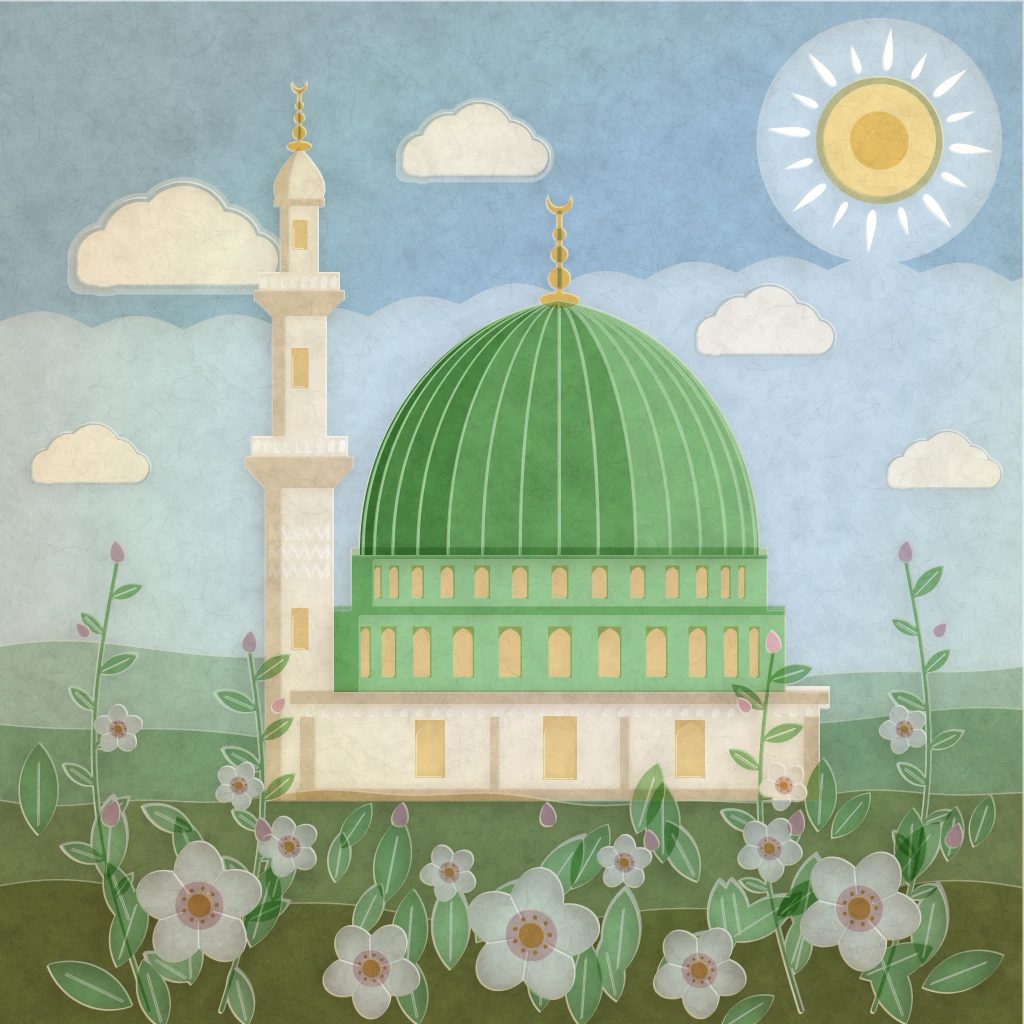
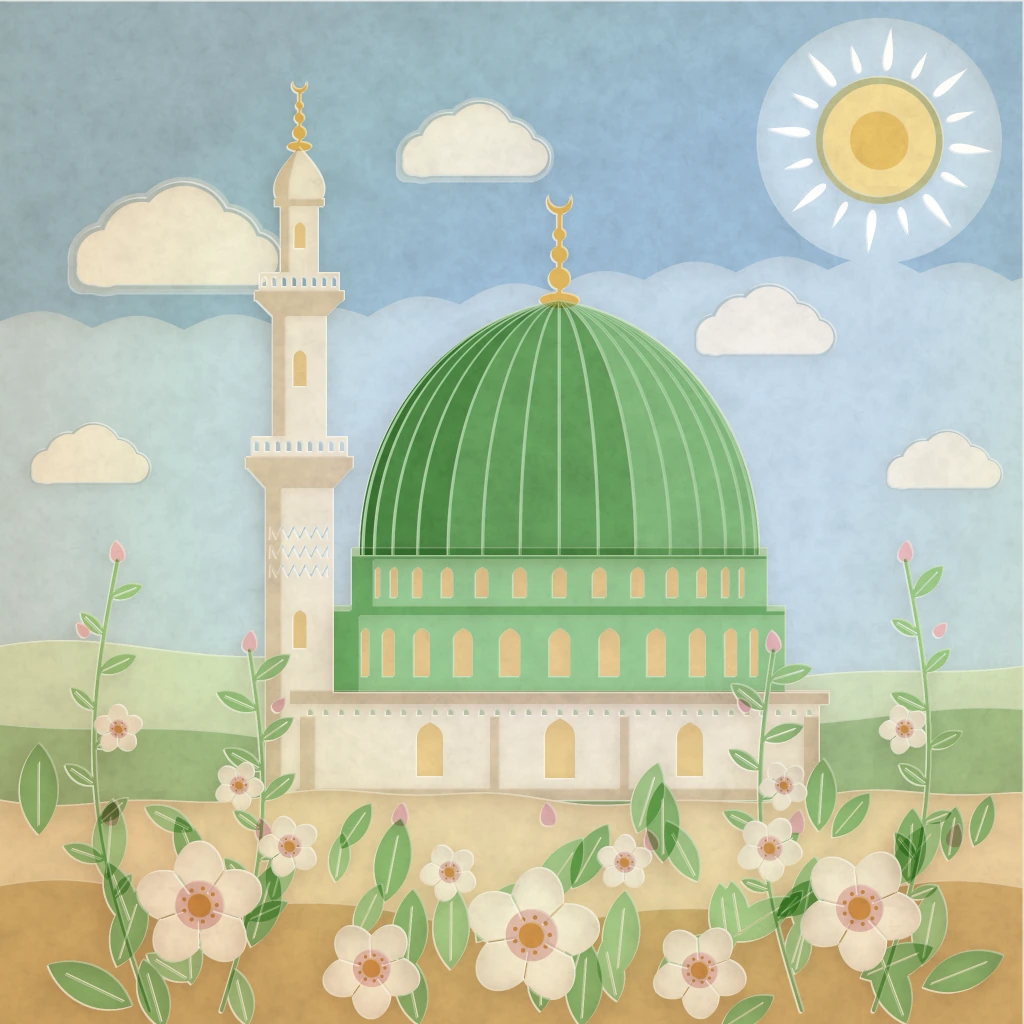
Atölye: geometrik vektör, saydam katmanlar, gradyan çizgi, duotone, çiçek çerçeveli vektör (S-126–S-130) ilk tur
Claude-Session: https://claude.ai/code/session_01Q8CfoBGMPN7gfLWQYpMs1J

diff --git a/atolye/stiller/S-148-fotogercekci-dijital-resim/ornek.html b/atolye/stiller/S-148-fotogercekci-dijital-resim/ornek.html
@@ -890,17 +890,18 @@
         const X = i * 2;
         const Y = j * 2;
         const h = G.kenet(1 - Y / 800, 0, 1); // 1 tepe, 0 ufuk
-        const zen = [0.1, 0.24, 0.6];
-        const ufk = [0.62, 0.72, 0.82];
-        const t = Math.pow(h, 0.55);
-        let c = [ufk[0] + (zen[0] - ufk[0]) * t, ufk[1] + (zen[1] - ufk[1]) * t, ufk[2] + (zen[2] - ufk[2]) * t];
+        const zen = [52, 112, 198];
+        const ort = [118, 168, 226];
+        const ufk = [214, 228, 238];
+        const t = Math.pow(h, 0.7);
+        let c = t > 0.5 ? G.karis(ort, zen, (t - 0.5) / 0.5) : G.karis(ufk, ort, t / 0.5);
         const d = Math.hypot(X - GUNES.x, Y - GUNES.y);
-        const mie = 1.6 * Math.exp(-d / 60) + 0.45 * Math.exp(-d / 260) + 0.12 * Math.exp(-d / 600);
-        c = [c[0] + mie * 1.0, c[1] + mie * 0.96, c[2] + mie * 0.86];
+        const mie = 0.95 * Math.exp(-d / 45) + 0.42 * Math.exp(-d / 190) + 0.16 * Math.exp(-d / 520);
+        c = G.karis(c, [255, 252, 240], G.kenet(mie, 0, 1));
         const q = (j * 512 + i) * 4;
-        im.data[q] = srgb(aces(c[0] * 0.9));
-        im.data[q + 1] = srgb(aces(c[1] * 0.9));
-        im.data[q + 2] = srgb(aces(c[2] * 0.9));
+        im.data[q] = c[0];
+        im.data[q + 1] = c[1];
+        im.data[q + 2] = c[2];
         im.data[q + 3] = 255;
       }
     }
@@ -926,9 +927,9 @@
       const h = k.yuk + 2 * k.r1 + 60;
       const c = G.bulut(p, {
         x0, y0, w, h, olcek: 1.5, gur: PN, gurAmp: 0.55, gurFrek: 0.028, oktav: 6, icKoru: [0.6, 1.2],
-        isik: [255, 253, 248], golge: [150, 162, 184], alt: [176, 184, 202], kenar: [0.14, 0.62],
-        emilim: 1.3, adimlar: 9, adimBoy: 5, tabanY: k.y + k.r1 * 0.5, tabanYum: 16, altGuc: 0.55, opaklik: k.ol,
-        parlakKenar: [255, 255, 255],
+        isik: [255, 254, 250], golge: [176, 188, 206], alt: [188, 196, 212], kenar: [0.12, 0.58],
+        emilim: 0.8, adimlar: 7, adimBoy: 5, tabanY: k.y + k.r1 * 0.5, tabanYum: 16, altGuc: 0.5, opaklik: k.ol,
+        normalMod: true, r1: 3, r2: 12, normalGuc: 18, ortulme: 0.45, isik3: [0.6, -0.65, 0.45],
       });
       ctx.drawImage(c, x0, y0, w, h);
     }
@@ -970,7 +971,7 @@
         const derz = Math.min(fx, 1 - fx) < 0.012 / derin || Math.min(fz, 1 - fz) < 0.02 ? 1 : 0;
         const damar = Math.pow(Math.abs(PT.fbm(wx * 1.3 + Math.floor(wz) * 3.1, wz * 2.2, 4)), 0.6);
         let v = 0.78 + 0.05 * PT.n(wx * 9, wz * 9) - 0.07 * (1 - G.kenet(damar * 4, 0, 1)) * 0.5;
-        if (derz) v *= 0.86;
+        if (derz) v *= 0.93;
         // gökten gelen yansıma: uzakta daha parlak (Fresnel)
         const fr = G.kenet(1 - (Y - 800) / 224, 0, 1);
         const c = [v * 0.95 + 0.1 * fr, v * 0.94 + 0.11 * fr, v * 0.9 + 0.14 * fr];
@@ -993,7 +994,7 @@
     golge: golgeTas,
     tas: TAS,
     tasKoyu: [150, 140, 124],
-    yesil: [44, 150, 78],
+    yesil: [52, 130, 74],
     yesilKoyu: [8, 40, 24],
     golgeRenk: [40, 48, 64],
     isikRenk: [255, 250, 236],
@@ -1009,7 +1010,7 @@
     alemParilti: 1,
   });
   // kubbe: boyalı metal levha — yayınık + GGX benzeri parlama + gök yansıması + oluk ortam gölgesi
-  const KUBBE = [42, 150, 76];
+  const KUBBE = [56, 140, 82];
   G.kubbeGolgele(mx, {
     olcek: 2,
     kaburgaGen: 1.5,
@@ -1020,7 +1021,7 @@
       const ao = (1 - 0.35 * g.oluk) * (1 - 0.35 * G.yumusak(536, 556, g.Y)) * (0.92 + 0.08 * g.kaburga);
       const up = Math.max(0, -n[1]);
       const yans = [0.05 + 0.12 * up, 0.08 + 0.15 * up, 0.14 + 0.24 * up];
-      let c = foto(KUBBE, n, { ao, parlak: 0.5, us: 46, yansima: yans });
+      let c = foto(KUBBE, n, { ao, parlak: 0.32, us: 22, yansima: yans });
       // levha dokusu: çok ince dikey dalgalanma (yeni, temiz boya)
       const tx = 1 + 0.025 * PT.n(g.phi * 40, g.Y * 0.05);
       return [c[0] * tx, c[1] * tx, c[2] * tx];
@@ -1028,7 +1029,7 @@
   });
   {
     const q = SAHNE.kasnak[0];
-    mx.fillStyle = G.silindirDegrade(mx, q.x1, q.x2, (n) => foto([70, 168, 98], G.norm([n[0] * 0.5, -0.85, n[2] * 0.5])));
+    mx.fillStyle = G.silindirDegrade(mx, q.x1, q.x2, (n) => foto([76, 150, 96], G.norm([n[0] * 0.5, -0.85, n[2] * 0.5])));
     mx.fillRect(q.x1, q.y1 - 1, q.x2 - q.x1, 3.5);
   }
   G.alem(mx, SAHNE.alemParcalari(560, 300, 1), (t) => {
@@ -1055,7 +1056,7 @@
               const fs = sira - Math.floor(sira);
               const kay = Math.floor(sira) % 2 ? 0 : 24;
               const fx = ((X - 300 + kay) / 48) % 1;
-              if (fs < 0.05 || fx < 0.02) m *= 0.93;
+              if (fs < 0.05 || fx < 0.02) m *= 0.95;
             }
           } else if (b === 'kubbe' || b === 'kasnak') {
             m = 1 + 0.012 * PT.n(X * 3, Y * 3);
@@ -1175,8 +1176,8 @@
   function yaprakTara(Kt, y, z0, ton) {
     const uz = y.uzunluk;
     const gen = uz * 0.24;
-    const koyu = G.karis([42, 92, 40], [56, 108, 44], ton);
-    const acik = G.karis([92, 150, 66], [120, 168, 72], ton);
+    const koyu = G.karis([40, 72, 36], [52, 84, 40], ton);
+    const acik = G.karis([78, 116, 56], [98, 132, 62], ton);
     tara(Kt, y.x, y.y, uz, gen, y.aci,
       (t) => Math.pow(Math.sin(Math.PI * Math.min(1, t)), 0.75) * (1 - 0.18 * t),
       (t, vn, u) => {
@@ -1285,7 +1286,7 @@
           const ters = Math.max(0, -G.nokta(n, L)) + (1 - gol) * 0.35;
           col = G.karis(col, G.karis(alb, [255, 236, 200], 0.4), ters * 0.32);
         } else {
-          col = foto(alb, n, { golge: gol, ao, parlak: 0.35, us: 34 });
+          col = foto(alb, n, { golge: gol, ao, parlak: 0.22, us: 30 });
         }
         const q = k * 4;
         d[q] = col[0];

diff --git a/atolye/stiller/S-134-isikli-kagit-kutu/ornek.html b/atolye/stiller/S-134-isikli-kagit-kutu/ornek.html
@@ -41,15 +41,17 @@
       g.drawImage(t, 0, 0, W2, W2);
     }
     // lifler: kısa, yumuşak; çoğu açık (ince yer), azı hafif koyu (kalın yer)
-    g.lineCap = 'round';
-    g.filter = 'blur(1px)';
+    const lt = SAHNE.yeniTuval(W2, W2), l = lt.getContext('2d');
+    l.lineCap = 'round';
     for (let i = 0; i < 9000; i++) {
       const x = r() * W2, y = r() * W2, a = r() * TAU, L = 8 + r() * 26, b = (r() - 0.5) * 1.4;
       const koyu = r() < 0.35;
-      g.strokeStyle = koyu ? `rgba(150,140,130,${0.03 + r() * 0.04})` : `rgba(255,255,255,${0.08 + r() * 0.12})`;
-      g.lineWidth = 1 + r() * 2.2;
-      g.beginPath(); g.moveTo(x, y); g.quadraticCurveTo(x + Math.cos(a + b) * L * 0.5, y + Math.sin(a + b) * L * 0.5, x + Math.cos(a) * L, y + Math.sin(a) * L); g.stroke();
+      l.strokeStyle = koyu ? `rgba(150,140,130,${0.03 + r() * 0.04})` : `rgba(255,255,255,${0.08 + r() * 0.12})`;
+      l.lineWidth = 1 + r() * 2.2;
+      l.beginPath(); l.moveTo(x, y); l.quadraticCurveTo(x + Math.cos(a + b) * L * 0.5, y + Math.sin(a + b) * L * 0.5, x + Math.cos(a) * L, y + Math.sin(a) * L); l.stroke();
     }
+    g.filter = 'blur(1px)';
+    g.drawImage(lt, 0, 0);
     g.filter = 'none';
   })();
 

diff --git a/atolye/stiller/S-137-katmanli-ahsap/ornek.html b/atolye/stiller/S-137-katmanli-ahsap/ornek.html
@@ -139,7 +139,7 @@
     kasnakArka: '#78AE8D', kasnakAlt: '#A3D2B1', kasnakUst: '#B3DBBE',
     kubbeArka: '#8EC49F', kubbe: '#A9D6B6',
     altin: '#E7C36B', zikzak: '#E9C989',
-    zemin: '#EEDCBC', yaprak1: '#A9CBA2', yaprak2: '#94BE8F', sap: '#9CC396',
+    zemin: '#F1DABF', yaprak1: '#A9CBA2', yaprak2: '#94BE8F', sap: '#9CC396',
     cicek: '#FCFAF5', orta: '#F2D27A', tomurcuk: '#F2C2CC', cerceve: '#F4E9D6',
   };
 
